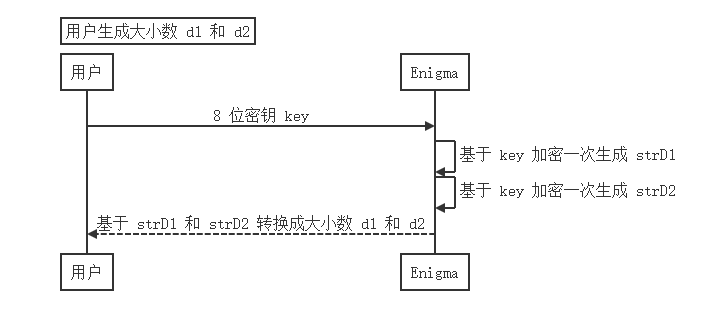
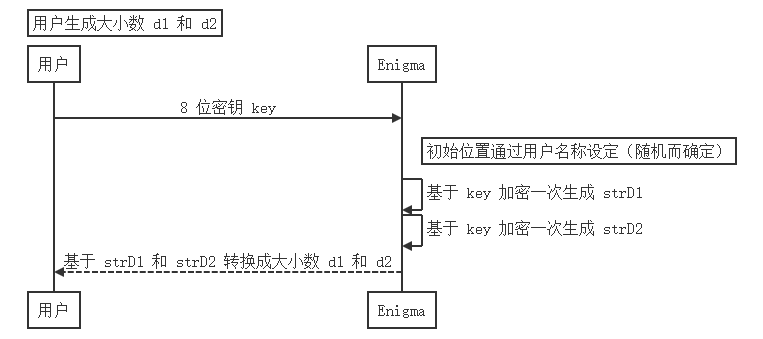
更新方案，Enigma 机的初始位置通过用户名称设定

Changed region(s): [[0.0311, 0.0, 0.9646, 0.9871]]

diff --git a/design/seq.md b/design/seq.md
@@ -3,6 +3,7 @@
 ```sequence
 Title: 用户生成大小数 d1 和 d2
 用户->Enigma:8 位密钥 key
+Note right of Enigma:初始位置通过用户名称设定（随机而确定）
 Enigma->Enigma:基于 key 加密一次生成 strD1
 Enigma->Enigma:基于 key 加密一次生成 strD2
 Enigma-->用户:基于 strD1 和 strD2 转换成大小数 d1 和 d2
